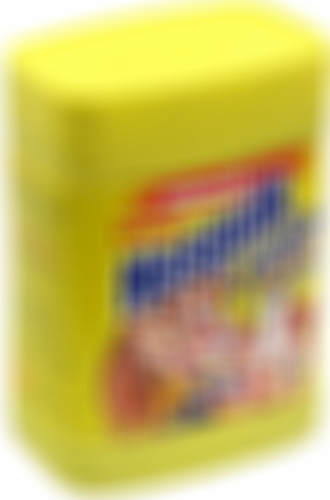
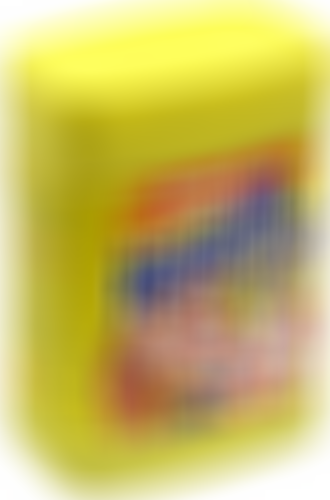
mess

diff --git a/src/lecture_8/HomeWork.java b/src/lecture_8/HomeWork.java
@@ -13,7 +13,7 @@ public class HomeWork {
 		BufferedImage in = ImageIO.read(new File("/home/sasha/Картинки/1--69/39.jpg"));
 		int w = in.getWidth();
 		int h = in.getHeight();
-		int r = 25;
+		int r = 50;
 		BufferedImage out = new BufferedImage(w, h, in.getType());
 		int rs, gs, bs;
 		int xi, yi;
